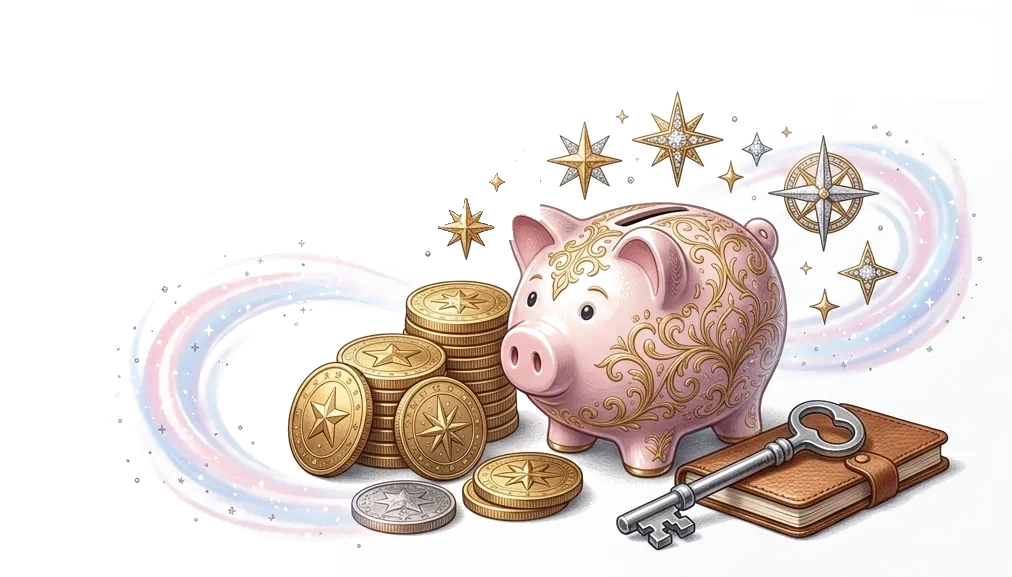
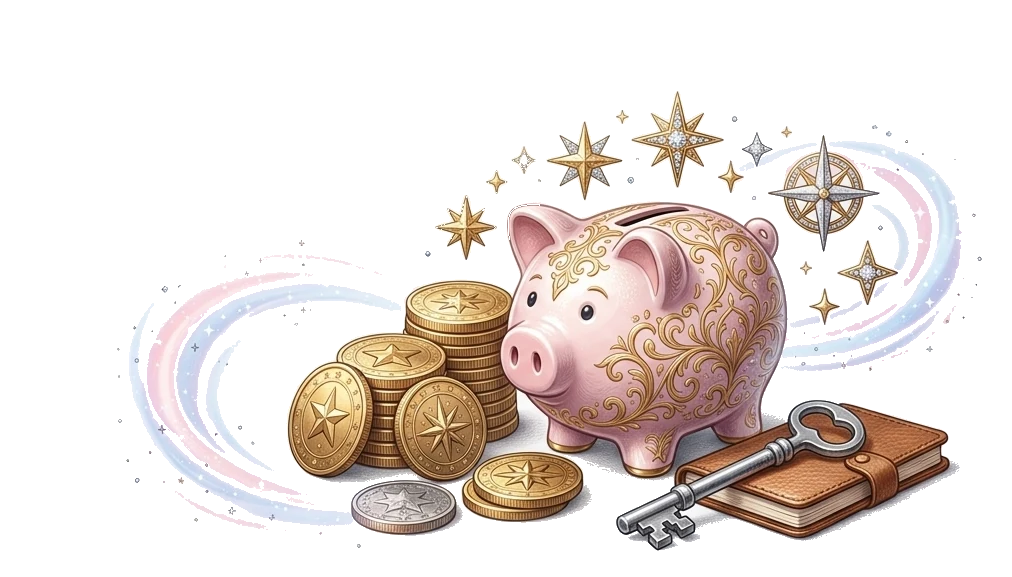
feat(piggy/kids): 저금통 페이지 스킨과 투명 일러스트를 맞추고 남는 코드를 걷어낸다

diff --git a/app/piggy-bank/page.tsx b/app/piggy-bank/page.tsx
@@ -18,6 +18,7 @@ import { formatCurrencyOptionLabel, getTopCurrencyCodes } from '@/lib/currencies
 import { formatMoneyAmount } from '@/lib/format-currency';
 import { intlLocaleForLang } from '@/lib/language-fonts';
 import { GroupRequiredRouteGuard } from '@/app/components/GroupRequiredRouteGuard';
+import { resolveUiTheme } from '@/lib/ui-theme';
 
 export const dynamic = 'force-dynamic';
 
@@ -122,6 +123,10 @@ function PiggyBankPageContent() {
   const [selectedChildIdForAdmin, setSelectedChildIdForAdmin] = useState('');
 
   const isAdmin = useMemo(() => userRole === 'ADMIN' || isOwner, [userRole, isOwner]);
+  const piggyMarkSrc =
+    resolveUiTheme((currentGroup as { ui_theme?: unknown } | null)?.ui_theme) === 'kids_friendly'
+      ? '/piggy/kids-piggy-icon.webp?v=5'
+      : '/piggy/ellena-piggy-red.svg';
 
   const [piggyName, setPiggyName] = useState('');
   const [allowanceAmount, setAllowanceAmount] = useState('');
@@ -528,9 +533,9 @@ function PiggyBankPageContent() {
     const membersWithoutPiggy = list.filter((p) => p.noAccount);
 
     return (
-      <div className="min-h-screen bg-[var(--surface-base)] p-5">
+      <div className="piggy-page min-h-screen bg-[var(--surface-base)] p-5">
         <div className="mb-5 flex items-center gap-4">
-          <img src="/piggy/ellena-piggy-red.svg" alt="Ellena Piggy" className="h-[90px] w-[90px]" />
+          <img src={piggyMarkSrc} alt="Ellena Piggy" className="piggy-page-mark h-[90px] w-[90px] bg-transparent object-contain" />
           <div>
             <h1 className="m-0 text-[22px] text-gray-800">{pt('management_title')}</h1>
             <p className="m-0 mt-1 text-slate-500">{currentGroup?.name || pt('group_label')} · {pt('piggy_per_child')}</p>
@@ -660,8 +665,8 @@ function PiggyBankPageContent() {
     if (summary !== null && summary.account == null && !isAdmin) {
       const pendingRequest = summary.pendingAccountRequest === true;
       return (
-        <div className="flex min-h-screen flex-col items-center justify-center gap-4 bg-[var(--surface-base)] p-5">
-          <img src="/piggy/ellena-piggy-red.svg" alt="Ellena Piggy" className="h-20 w-20" />
+        <div className="piggy-page flex min-h-screen flex-col items-center justify-center gap-4 bg-[var(--surface-base)] p-5">
+          <img src={piggyMarkSrc} alt="Ellena Piggy" className="piggy-page-mark h-20 w-20 bg-transparent object-contain" />
           {pendingRequest ? (
             <p className="m-0 text-center text-base font-semibold text-amber-800">
               {pt('approval_pending')}
@@ -692,9 +697,9 @@ function PiggyBankPageContent() {
     if (summary !== null && summary.account == null && isAdmin && selectedChildIdForAdmin) {
       const childName = members.find((m) => m.user_id === selectedChildIdForAdmin)?.nickname || pt('child_label');
       return (
-        <div className="min-h-screen bg-[var(--surface-base)] p-5">
+        <div className="piggy-page min-h-screen bg-[var(--surface-base)] p-5">
           <div className="mb-5 flex items-center gap-4">
-            <img src="/piggy/ellena-piggy-red.svg" alt="Ellena Piggy" className="h-[90px] w-[90px]" />
+            <img src={piggyMarkSrc} alt="Ellena Piggy" className="piggy-page-mark h-[90px] w-[90px] bg-transparent object-contain" />
             <div>
               <h1 className="m-0 text-[22px] text-gray-800">{pt('management_title')}</h1>
               <p className="m-0 mt-1 text-slate-500">{childName} · {pt('no_piggy')}</p>
@@ -736,12 +741,12 @@ function PiggyBankPageContent() {
   }
 
   return (
-    <div className="min-h-screen bg-[var(--surface-base)] p-5">
+    <div className="piggy-page min-h-screen bg-[var(--surface-base)] p-5">
       <div className="mb-5 flex items-center gap-4">
         <img
-          src="/piggy/ellena-piggy-red.svg"
+          src={piggyMarkSrc}
           alt="Ellena Piggy"
-          className="h-[90px] w-[90px]"
+          className="piggy-page-mark h-[90px] w-[90px] bg-transparent object-contain"
         />
         <div className="flex-1">
           {isAdmin && (

diff --git a/app/features/piggy-bank/components/PiggyBankSection.tsx b/app/features/piggy-bank/components/PiggyBankSection.tsx
@@ -76,9 +76,9 @@ export function PiggyBankSection({
     : t.section_title_user.replace(/\{name\}/g, piggySummary?.ownerNickname?.trim() || 'Ellena');
 
   const buttonText = isAdmin ? t.manage_all : t.go;
-  const hasAnyAccount = Boolean(piggyMemberPiggies?.some((p) => !p.noAccount));
-  const hasMemberCards = Boolean(piggyMemberPiggies && piggyMemberPiggies.length > 0);
-  const hasPiggyFilled = isAdmin ? hasMemberCards : Boolean(piggySummary);
+  const hasPiggyFilled = isAdmin
+    ? Boolean(piggyMemberPiggies && piggyMemberPiggies.length > 0)
+    : Boolean(piggySummary);
 
   return (
     <section className="content-section" data-piggy-filled={hasPiggyFilled ? 'true' : 'false'}>
@@ -154,7 +154,7 @@ export function PiggyBankSection({
                         ))}
                       </div>
                     )}
-                    {!hasAnyAccount && piggyMemberPiggies.length === 0 && (
+                    {piggyMemberPiggies.length === 0 && (
                       <div className="text-center text-[#64748b]" style={{ padding: '3cqmin', fontSize: '5cqmin' }}>
                         {t.no_account_holders}
                       </div>
@@ -216,7 +216,7 @@ export function PiggyBankSection({
                             </div>
                           </div>
                           <div className="grid grid-cols-2" style={{ gap: '2.5cqmin' }}>
-                            <div className="piggy-widget-metric piggy-widget-metric--wallet rounded-lg border border-solid border-[#fecaca] bg-[#fef2f2]" style={{ padding: '2.5cqmin' }}>
+                            <div className="piggy-widget-metric--wallet rounded-lg border border-solid border-[#fecaca] bg-[#fef2f2]" style={{ padding: '2.5cqmin' }}>
                               <div className="text-[#b91c1c]" style={{ marginBottom: '1cqmin', fontSize: '4cqmin' }}>
                                 {t.wallet_balance_label}
                               </div>
@@ -224,7 +224,7 @@ export function PiggyBankSection({
                                 {formatAmount(p.walletBalance ?? 0, p.currency)}
                               </div>
                             </div>
-                            <div className="piggy-widget-metric piggy-widget-metric--bank rounded-lg border border-solid border-[#fed7aa] bg-[#fff7ed]" style={{ padding: '2.5cqmin' }}>
+                            <div className="piggy-widget-metric--bank rounded-lg border border-solid border-[#fed7aa] bg-[#fff7ed]" style={{ padding: '2.5cqmin' }}>
                               <div className="text-[#9a3412]" style={{ marginBottom: '1cqmin', fontSize: '4cqmin' }}>
                                 {t.bank_balance_label}
                               </div>

diff --git a/app/globals.css b/app/globals.css
@@ -2735,7 +2735,7 @@ select:not(.chalkboard-form-input) {
     padding: var(--spacing-lg) calc(var(--spacing-lg) + 1cqmin) calc(var(--spacing-lg) + 1cqmin);
     -webkit-backdrop-filter: none;
     backdrop-filter: none;
-    --piggy-kids-art: url('/piggy/kids-widget-bg.webp?v=2') right center / auto 100% no-repeat;
+    --piggy-kids-art: url('/piggy/kids-widget-bg.webp?v=5') right center / auto 100% no-repeat;
   }
 
   :root[data-ui-theme='kids_friendly'] .widget-chrome[data-widget-key='piggy'] .content-section::before,
@@ -2859,6 +2859,33 @@ select:not(.chalkboard-form-input) {
     background-color: #16a34a !important;
     font-weight: 800;
     box-shadow: 0 2px 8px rgba(22, 163, 74, 0.35);
+  }
+
+  :root[data-ui-theme='kids_friendly'] .piggy-page,
+  .dark[data-ui-theme='kids_friendly'] .piggy-page {
+    background-color: #bae6fd !important;
+    background-image: linear-gradient(160deg, #bae6fd 0%, #f9a8d4 58%, #ffedd5 100%) !important;
+  }
+
+  :root[data-ui-theme='kids_friendly'] .piggy-page .glass-panel,
+  .dark[data-ui-theme='kids_friendly'] .piggy-page .glass-panel {
+    background: linear-gradient(
+      180deg,
+      rgba(255, 255, 255, 0.62) 0%,
+      rgba(252, 231, 243, 0.68) 55%,
+      rgba(186, 230, 253, 0.6) 100%
+    ) !important;
+    border-color: rgba(255, 255, 255, 0.55) !important;
+    box-shadow: 0 8px 22px rgba(15, 23, 42, 0.06);
+    -webkit-backdrop-filter: none;
+    backdrop-filter: none;
+  }
+
+  :root[data-ui-theme='kids_friendly'] .piggy-page-mark,
+  .dark[data-ui-theme='kids_friendly'] .piggy-page-mark {
+    width: auto !important;
+    max-width: 200px;
+    background: transparent !important;
   }
 
   /*
